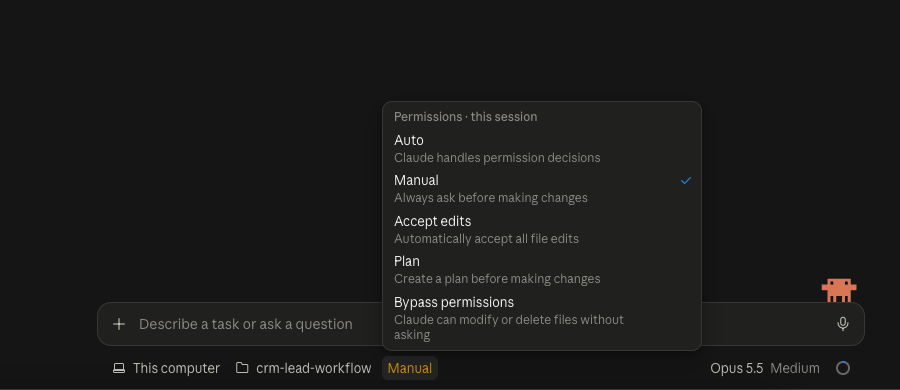
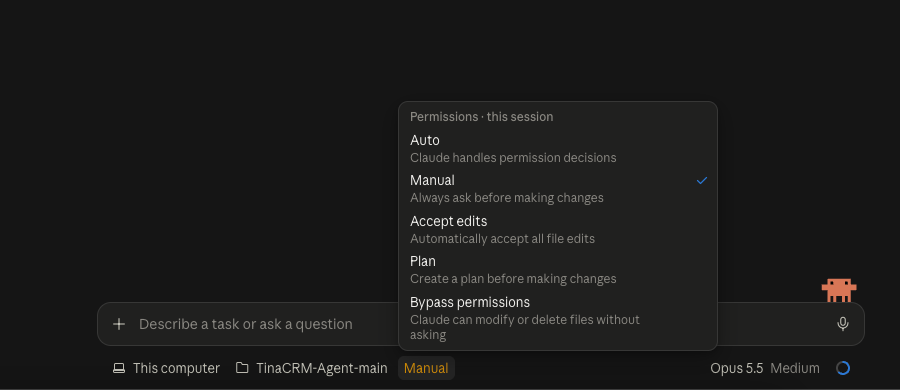
docs: dark GitHub screenshot, recapture Claude Desktop shots with TinaCRM-Agent-main folder

diff --git a/web-docs/src/lib/visuals.ts b/web-docs/src/lib/visuals.ts
@@ -13,12 +13,12 @@ export type Visual = {
 };
 
 export const visuals: Record<string, Visual[]> = {
-  "tai-workflow:download": [{ src: "/illustrations/github-download.png", alt: "Trang GitHub TinaCRM-Agent với menu Code đang mở và lựa chọn Download ZIP ở cuối menu", caption: "", kind: "Ảnh chụp thực tế", source: "https://github.com/Tinasoft-Viet-Nam/TinaCRM-Agent", markers: [{ x: 64.4, y: 32.1, w: 8.9, h: 4.3, label: "1", text: "Code", badge: "above" }, { x: 42.3, y: 65.7, w: 30.4, h: 4.3, label: "2", badge: "left", text: "Download ZIP" }] }],
+  "tai-workflow:download": [{ src: "/illustrations/github-download.png", srcLight: "/illustrations/github-download-light.png", alt: "Trang GitHub TinaCRM-Agent với menu Code đang mở và lựa chọn Download ZIP ở cuối menu", caption: "", kind: "Ảnh chụp thực tế", source: "https://github.com/Tinasoft-Viet-Nam/TinaCRM-Agent", markers: [{ x: 64.4, y: 32.1, w: 8.9, h: 4.3, label: "1", text: "Code", badge: "above" }, { x: 42.3, y: 65.7, w: 30.4, h: 4.3, label: "2", badge: "left", text: "Download ZIP" }] }],
   "dat-tai-lieu:where": [{ src: "/illustrations/folder-map.svg", alt: "Sơ đồ thư mục workflow: inputs gồm 01_company_info cho hồ sơ công ty và 02_marketing_materials cho sản phẩm, outputs chứa kết quả", caption: "", kind: "Sơ đồ minh họa" }],
-  "mo-claude-code:overview": [{ src: "/illustrations/claude-code-folder-chosen-full.png", srcLight: "/illustrations/claude-code-folder-chosen-full-light.png", alt: "Toàn bộ cửa sổ Claude Desktop ở tab Code: biểu tượng Code ở góc trên bên trái, thanh lựa chọn nằm ngay dưới ô nhập ở cuối cửa sổ", caption: "", kind: "Ảnh chụp thực tế", markers: [{ x: 10.3, y: 1.1, w: 1.9, h: 2.8, label: "1", text: "Tab Code (biểu tượng </>), góc trên bên trái", badge: "right" }, { x: 36.6, y: 96.3, w: 17.8, h: 2.9, label: "2", text: "Thanh dưới ô nhập: thư mục và quyền chọn ở đây", badge: "above" }] }],
-  "mo-claude-code:folder": [{ src: "/illustrations/claude-code-open-folder-zoom.png", srcLight: "/illustrations/claude-code-open-folder-zoom-light.png", alt: "Phần dưới cửa sổ Claude Desktop: nút Choose… dưới ô nhập đang mở menu thư mục, Open folder… ở cuối menu", caption: "", kind: "Ảnh chụp thực tế", markers: [{ x: 26, y: 91.5, w: 9.5, h: 6.2, label: "1", text: "Choose…", badge: "below" }, { x: 26, y: 82.3, w: 33.6, h: 6.4, label: "2", text: "Open folder… → chọn thư mục workflow", badge: "right" }] }],
-  "mo-claude-code:permissions": [{ src: "/illustrations/claude-code-permissions-zoom.png", srcLight: "/illustrations/claude-code-permissions-zoom-light.png", alt: "Phần dưới cửa sổ Claude Desktop: menu Permissions mở từ nút Manual, gồm Auto, Manual, Accept edits, Plan, Bypass permissions", caption: "", kind: "Ảnh chụp thực tế", markers: [{ x: 42.5, y: 91.5, w: 6.3, h: 6.2, label: "1", text: "Bấm vào đây để mở menu quyền", badge: "below" }, { x: 42.7, y: 43.6, w: 34.8, h: 9.6, label: "2", text: "Manual: nên chọn", badge: "right" }, { x: 42.7, y: 75.1, w: 34.8, h: 13.4, label: "3", text: "Bypass permissions: không dùng", badge: "right" }] }],
-  "hang-ngay:parallel": [{ src: "/illustrations/claude-code-folder-chosen-full.png", srcLight: "/illustrations/claude-code-folder-chosen-full-light.png", alt: "Cửa sổ Claude Desktop ở tab Code: nút + New ở thanh bên trái, thư mục đang chọn dưới ô nhập", caption: "", kind: "Ảnh chụp thực tế", markers: [{ x: 0.4, y: 9.1, w: 11.6, h: 2.7, label: "1", text: "+ New: mở phiên mới", badge: "right" }, { x: 43.4, y: 96.3, w: 7.3, h: 2.9, label: "2", text: "Thư mục của phiên", badge: "above" }] }],
+  "mo-claude-code:overview": [{ src: "/illustrations/claude-code-folder-chosen-full.png", srcLight: "/illustrations/claude-code-folder-chosen-full-light.png", alt: "Toàn bộ cửa sổ Claude Desktop ở tab Code: biểu tượng Code ở góc trên bên trái, thanh lựa chọn nằm ngay dưới ô nhập ở cuối cửa sổ", caption: "", kind: "Ảnh chụp thực tế", markers: [{ x: 10.3, y: 1.1, w: 1.9, h: 2.8, label: "1", text: "Tab Code (biểu tượng </>), góc trên bên trái", badge: "right" }, { x: 36.6, y: 96.3, w: 18.5, h: 2.9, label: "2", text: "Thanh dưới ô nhập: thư mục và quyền chọn ở đây", badge: "above" }] }],
+  "mo-claude-code:folder": [{ src: "/illustrations/claude-code-open-folder-zoom.png", srcLight: "/illustrations/claude-code-open-folder-zoom-light.png", alt: "Phần dưới cửa sổ Claude Desktop: nút thư mục dưới ô nhập đang mở menu thư mục, Open folder… ở cuối menu", caption: "", kind: "Ảnh chụp thực tế", markers: [{ x: 25.8, y: 91.5, w: 18, h: 6.2, label: "1", text: "Nút thư mục (lần đầu ghi Choose…)", badge: "below" }, { x: 25.8, y: 82.3, w: 20.6, h: 6.4, label: "2", text: "Open folder… → chọn thư mục workflow", badge: "right" }] }],
+  "mo-claude-code:permissions": [{ src: "/illustrations/claude-code-permissions-zoom.png", srcLight: "/illustrations/claude-code-permissions-zoom-light.png", alt: "Phần dưới cửa sổ Claude Desktop: menu Permissions mở từ nút Manual, gồm Auto, Manual, Accept edits, Plan, Bypass permissions", caption: "", kind: "Ảnh chụp thực tế", markers: [{ x: 44.4, y: 91.5, w: 6.4, h: 6.2, label: "1", text: "Bấm vào đây để mở menu quyền", badge: "below" }, { x: 44.3, y: 43.6, w: 35.6, h: 9.6, label: "2", text: "Manual: nên chọn", badge: "right" }, { x: 44.3, y: 75.1, w: 35.6, h: 13.4, label: "3", text: "Bypass permissions: không dùng", badge: "right" }] }],
+  "hang-ngay:parallel": [{ src: "/illustrations/claude-code-folder-chosen-full.png", srcLight: "/illustrations/claude-code-folder-chosen-full-light.png", alt: "Cửa sổ Claude Desktop ở tab Code: nút + New ở thanh bên trái, thư mục đang chọn dưới ô nhập", caption: "", kind: "Ảnh chụp thực tế", markers: [{ x: 0.4, y: 9.1, w: 11.6, h: 2.7, label: "1", text: "+ New: mở phiên mới", badge: "right" }, { x: 43.4, y: 96.3, w: 8.3, h: 2.9, label: "2", text: "Thư mục của phiên", badge: "above" }] }],
   "tro-giup:usage": [{ src: "/illustrations/claude-account-menu.png", srcLight: "/illustrations/claude-account-menu-light.png", alt: "Góc dưới bên trái Claude Desktop: menu tài khoản đang mở, có mục Usage", caption: "", kind: "Ảnh chụp thực tế", markers: [{ x: 0.8, y: 94.2, w: 21.5, h: 4.6, label: "1", text: "Bấm tên tài khoản", badge: "right" }, { x: 1.5, y: 57.1, w: 25.8, h: 4, label: "2", text: "Usage", badge: "right" }] }],
   "ket-noi-mcp:apikey-open": [{ src: "/illustrations/tinacrm-api-keys.png", srcLight: "/illustrations/tinacrm-api-keys-light.png", markersLight: [{ x: 0.4, y: 48.8, w: 10.9, h: 3.2, label: "1", text: "Settings → MCP & APIs", badge: "right" }, { x: 53.4, y: 5.9, w: 3, h: 4.1, label: "2", text: "Tab API", badge: "below" }, { x: 67.6, y: 49.8, w: 6.8, h: 2.9, label: "3", text: "Create API key", badge: "below" }], alt: "TinaCRM Settings, trang MCP & APIs ở tab API, có nút Create API key", caption: "", kind: "Ảnh chụp thực tế", markers: [{ x: 0.4, y: 48.6, w: 13.1, h: 3, label: "1", text: "Settings → MCP & APIs", badge: "right" }, { x: 53.4, y: 6.2, w: 3.1, h: 3.7, label: "2", text: "Tab API", badge: "below" }, { x: 67.6, y: 43.9, w: 6.9, h: 3.2, label: "3", text: "Create API key", badge: "below" }] }],
   "ket-noi-mcp:apikey-form": [{ src: "/illustrations/tinacrm-api-key-form.png", srcLight: "/illustrations/tinacrm-api-key-form-light.png", alt: "Biểu mẫu New key của TinaCRM gồm Name, Role, Expiration Date và nút Save", caption: "", kind: "Ảnh chụp thực tế", markers: [{ x: 37.3, y: 14.8, w: 37.2, h: 3.6, label: "1", text: "Name: đặt tên dễ nhận ra, ví dụ Claude workflow", badge: "right" }, { x: 37.3, y: 28.6, w: 37.2, h: 3.6, label: "2", text: "Role: quyền của khóa", badge: "right" }, { x: 37.3, y: 42.6, w: 37.2, h: 3.6, label: "3", text: "Expiration Date: ngày hết hạn", badge: "right" }, { x: 95.7, y: 1.4, w: 3.5, h: 2.7, label: "4", text: "Save", badge: "below" }] }],

diff --git a/web-docs/public/illustrations/README.md b/web-docs/public/illustrations/README.md
@@ -3,18 +3,18 @@
 
 
 
-- `github-download.png`: ảnh chụp trang kho GitHub Tinasoft-Viet-Nam/TinaCRM-Agent (menu Code mở), chụp 2026-10-26 bằng Playwright, không phải giao diện Claude.
+- `github-download.png`: ảnh chụp trang kho GitHub Tinasoft-Viet-Nam/TinaCRM-Agent (menu Code mở), chụp 2026-10-26 bằng Playwright ở giao diện tối; `github-download-light.png` là bản giao diện sáng cùng khung. Đã làm mờ avatar và tên tài khoản, không phải giao diện Claude.
 - `folder-map.svg`, `copy-files.svg`, `unzip.svg`, `email-flow.svg`: sơ đồ thao tác/nghiệp vụ, không phải screenshot hệ điều hành hay ứng dụng.
 - `code-local.svg`: sơ đồ thao tác Code → Local → Select folder, đối chiếu tài liệu https://code.claude.com/docs/en/desktop-quickstart. Không phải ảnh chụp Claude Code.
 - Các ảnh Chat Projects/Add to project hoặc trang download không được dùng làm hình đối chiếu giao diện Code.
 
-- `claude-code-folder-chosen-full.png`: toàn bộ cửa sổ Claude Desktop (Mac) tab Code sau khi chọn thư mục, chụp 2026-10-19. Đã xóa tên tài khoản góc dưới trái.
-- `claude-code-open-folder-zoom.png`: phần dưới cửa sổ, menu chọn thư mục mở từ nút Choose…, chụp 2026-10-19. Đã xóa tên các dự án khác trong mục Recent, chỉ giữ crm-lead-workflow.
-- `claude-code-permissions-zoom.png`: phần dưới cửa sổ, menu Permissions mở từ nút Manual với 5 chế độ, chụp 2026-10-19.
+- `claude-code-folder-chosen-full.png`: toàn bộ cửa sổ Claude Desktop (Mac) tab Code sau khi chọn thư mục TinaCRM-Agent-main (giải nén từ ZIP repo Tinasoft-Viet-Nam/TinaCRM-Agent), quyền Manual, chụp 2026-10-26. Đã xóa tên tài khoản góc dưới trái.
+- `claude-code-open-folder-zoom.png`: phần dưới cửa sổ, menu chọn thư mục mở từ nút thư mục (lần đầu ghi Choose…), chụp 2026-10-26. Đã xóa tên các dự án khác trong mục Recent, chỉ giữ TinaCRM-Agent-main.
+- `claude-code-permissions-zoom.png`: phần dưới cửa sổ, menu Permissions mở từ nút Manual với 5 chế độ, chụp 2026-10-26.
 - `claude-account-menu.png`: góc dưới trái Claude Desktop, menu tài khoản có Usage, chụp 2026-10-19. Đã xóa email và tên tài khoản.
 - `tinacrm-api-keys.png`, `tinacrm-api-key-form.png`, `tinacrm-api-key-created.png`: TinaCRM Settings → MCP & APIs → API, tạo khóa thử, chụp 2026-10-19 trên Edge. Đã cắt thanh trình duyệt (địa chỉ workspace) và che hoàn toàn chuỗi khóa.
 - `tinacrm-key-dialog.png`: hộp thoại do scripts/tinacrm_save_key.sh bật lên, chụp 2026-10-19.
-- Bản giao diện sáng `*-light.png` của 4 ảnh Claude Desktop trên (`claude-code-folder-chosen-full-light.png`, `claude-code-open-folder-zoom-light.png`, `claude-code-permissions-zoom-light.png`, `claude-account-menu-light.png`): chụp 2026-10-19, cùng vùng cắt với bản tối để dùng chung vị trí đánh dấu. Trang tự đổi ảnh theo giao diện sáng/tối (`srcLight` trong `src/lib/visuals.ts`). Đã xóa tên tài khoản, email và các dự án khác trong mục Recent.
+- Bản giao diện sáng `*-light.png` của 4 ảnh Claude Desktop trên (`claude-code-folder-chosen-full-light.png`, `claude-code-open-folder-zoom-light.png`, `claude-code-permissions-zoom-light.png`, `claude-account-menu-light.png`): 3 ảnh claude-code chụp lại 2026-10-26 (ảnh menu tài khoản chụp 2026-10-19), cùng vùng cắt với bản tối để dùng chung vị trí đánh dấu. Trang tự đổi ảnh theo giao diện sáng/tối (`srcLight` trong `src/lib/visuals.ts`). Đã xóa tên tài khoản, email và các dự án khác trong mục Recent.
 - `tinacrm-api-keys-light.png`, `tinacrm-api-key-form-light.png`: bản giao diện sáng của hai ảnh TinaCRM, chụp 2026-10-19 trên Edge, cùng vùng cắt (đã bỏ thanh trình duyệt). Đã che dòng khóa `test` trong danh sách. Ảnh danh sách khóa có bố cục khác bản tối nên dùng vị trí đánh dấu riêng (`markersLight`).
 - `claude-connector-card.png`, `claude-connector-card-light.png`: thẻ Suggested connectors (Gmail, nút Connect) Claude hiện trong khung chat tab Code, chụp 2026-10-21, bản tối và sáng cùng vùng cắt. Không có thông tin tài khoản.
 - `tinacrm-api-key-created-light.png`: bản giao diện sáng của màn hình khóa vừa tạo, chụp 2026-10-19 bằng khóa thử `docs-screenshot` (hạn 30 ngày) đã xóa ngay sau khi chụp. Chuỗi khóa được che trước khi lưu ảnh.
